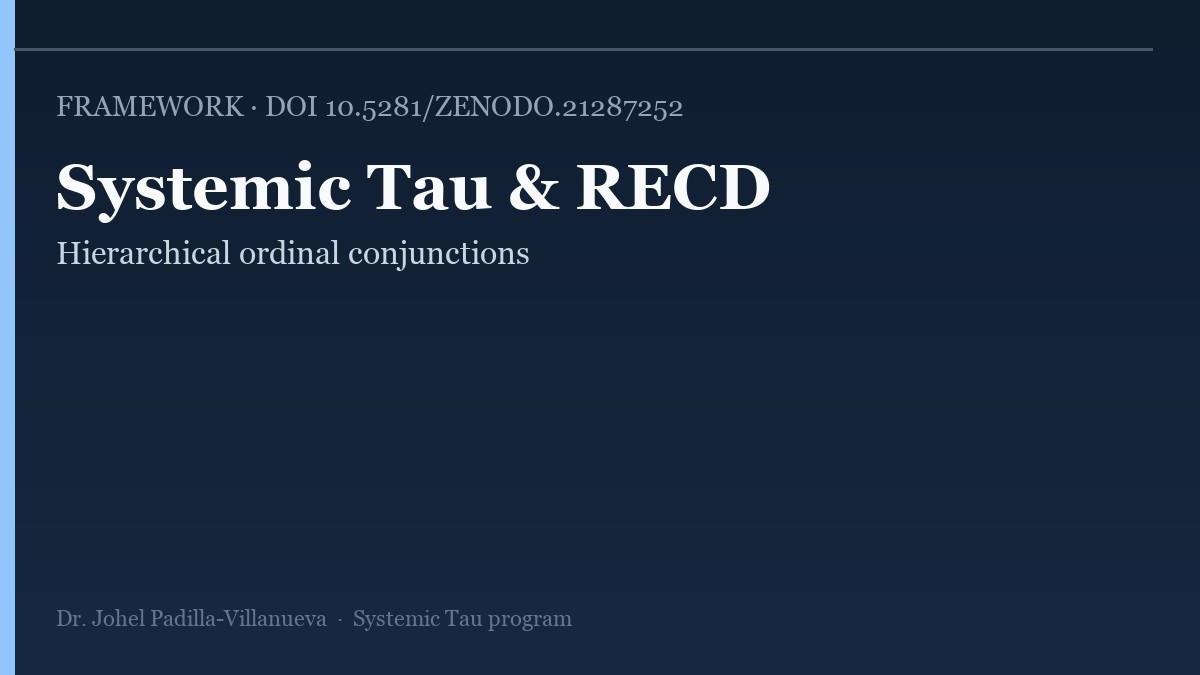
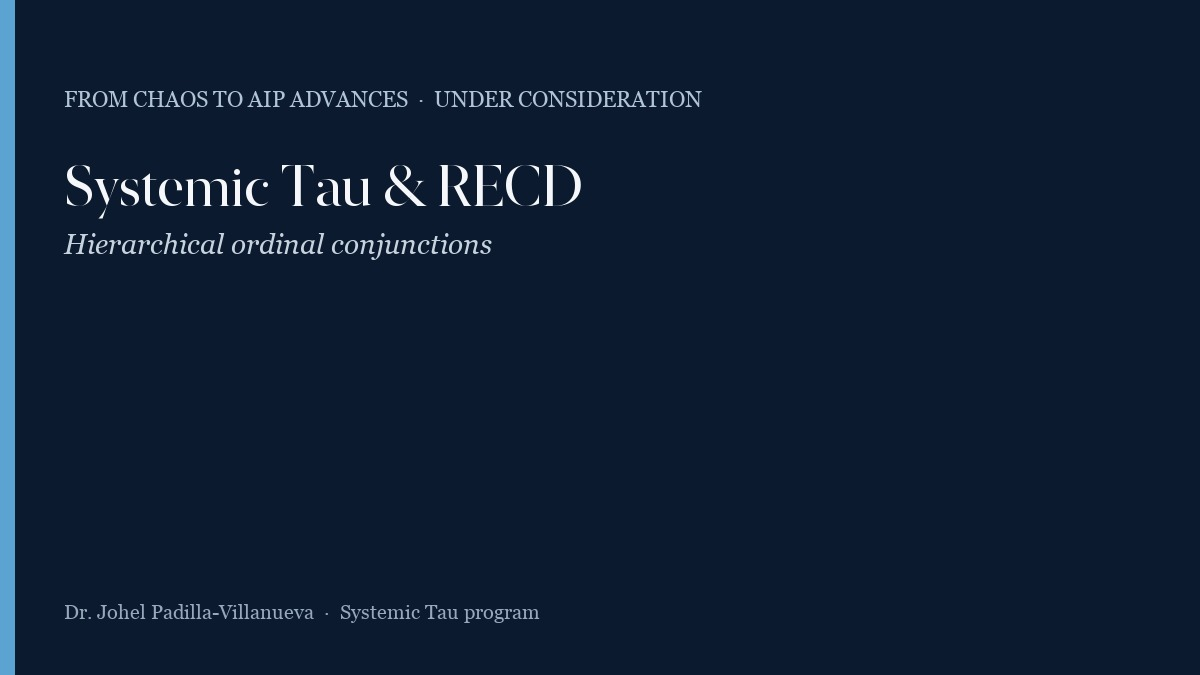
Record Chaos recommendation and reclassification to AIP Advances
The foundations paper is under consideration at AIP Advances after the
Chaos editor recommended the manuscript and reclassified it to that AIP
division. Keep the Zenodo preprint as the public version; do not present
the move as a rejection or as an acceptance.

Changed region(s): [[0.0, 0.0, 0.9558, 1.0]]

diff --git a/content/publications/systemic-tau-recd-framework/index.md b/content/publications/systemic-tau-recd-framework/index.md
@@ -3,13 +3,18 @@ title: "Systemic Tau and the RECD Framework: A Relational Theory of Hierarchical
 authors:
 - me
 date: "2026-07-10T00:00:00Z"
-publishDate: "2026-07-10T00:00:00Z"
+publishDate: "2026-08-18T00:00:00Z"
 
 publication_types: ["preprint"]
 
 peer_reviewed: false
 open_access: true
 license: CC-BY-4.0
+
+publication:
+  name: "AIP Advances (en consideración; reclasificado desde Chaos)"
+  short_name: "AIP Adv."
+  publisher: "AIP Publishing"
 
 hugoblox:
   ids:
@@ -23,7 +28,7 @@ links:
 
 abstract: "Theoretical framework for early warning of critical transitions based on two complementary constructs. Systemic Tau (τ_s) is an ordinal, multivariate measure of cross-variable coupling that tracks relational coherence via Kendall-type rank concordance. The Discrete Extramental Clock (RECD) builds an intrinsic, event-driven time metric from nested ordinal conjunctions (coincidence, persistent structure, and irreducible synergistic surplus)."
 
-summary: "Core RECD / Systemic Tau framework preprint (Zenodo 10.5281/zenodo.21287252)."
+summary: "Chaos (AIP) recomendó el manuscrito y lo reclasificó a AIP Advances, donde está en consideración. Preprint abierto en Zenodo."
 
 tags:
 - Systemic Tau
@@ -31,9 +36,17 @@ tags:
 - Early Warning
 - Complex Systems
 - Ordinal Patterns
+- AIP Advances
+- Chaos
 
 featured: true
 ---
+
+## Estado editorial
+
+Enviado a *Chaos* (AIP Publishing; CHA26-AR-02253, 14 de agosto de 2026). El editor **recomendó** el manuscrito y lo **reclasificó** a *AIP Advances* — la división de AIP apropiada por alcance, centrada en la solidez de los resultados. El transfer se completó el 18 de agosto de 2026.
+
+Está **en consideración** en *AIP Advances* (ADV26-AR-04147-T). No es una aceptación; el preprint abierto permanece en Zenodo.
 
 ## Key contributions
 
@@ -47,11 +60,13 @@ featured: true
 | Resource | URL |
 |----------|-----|
 | DOI / PDF | [10.5281/zenodo.21287252](https://doi.org/10.5281/zenodo.21287252) |
+| Journal | [*AIP Advances*](https://pubs.aip.org/aip/adv) (en consideración) |
 | Software | [Academy Learning Tau](https://academylearningtau.streamlit.app) |
 | Synthesis | [Second Edition monograph](../tau-sistemic-second-edition/) |
 
 ## Citation
 
 ```
-Padilla-Villanueva, J. (2026). Systemic Tau and the RECD framework: A relational theory of hierarchical ordinal conjunctions and critical transitions in complex systems. Zenodo. https://doi.org/10.5281/zenodo.21287252
+Padilla-Villanueva, J. (2026). Systemic Tau and the RECD framework: A relational theory of hierarchical ordinal conjunctions and critical transitions in complex systems. Preprint, Zenodo. https://doi.org/10.5281/zenodo.21287252
+  Submitted to Chaos (AIP); editor recommended transfer and reclassified to AIP Advances (ADV26-AR-04147-T; under consideration).
 ```

diff --git a/content/about/index.md b/content/about/index.md
@@ -47,7 +47,7 @@ sections:
       text: |-
         El trabajo se organiza en torno a **Systemic Tau (τ_s)** y el **Reloj Extramental Discreto (RECD)**: métricas ordinales multivariadas, tiempo extramental discreto y dependencia de orden superior (**excess³ / Φ₃**), con aplicaciones a alerta temprana (dengue) y software abierto.
 
-        La arquitectura canónica está en la *Summa Tau Sistemica* (Tomos **I–IV** cerrados; **V** epidemiología en curso). En filosofía de la física, continúo el proyecto poliano con *El acto de ser relacional-discreto*. La síntesis de programa está en *Systemic Tau and the Discrete Architecture of Time* (2.ª ed., ISBN 979-8-18776-367-2).
+        El artículo de fundamentos fue enviado a *Chaos* (AIP). El editor lo recomendó y lo reclasificó a *AIP Advances*, donde está en consideración. La arquitectura canónica está en la *Summa Tau Sistemica* (Tomos **I–IV** cerrados; **V** epidemiología en curso). En filosofía de la física, continúo el proyecto poliano con *El acto de ser relacional-discreto*. La síntesis de programa está en *Systemic Tau and the Discrete Architecture of Time* (2.ª ed., ISBN 979-8-18776-367-2).
 
         ### Enlaces rápidos
         - [Perfil de autor](/academic-site/authors/me/) · [Publicaciones](/academic-site/publications/) · [Proyectos](/academic-site/project/)

diff --git a/content/about/index.en.md b/content/about/index.en.md
@@ -45,7 +45,7 @@ sections:
       text: |-
         Work centers on **Systemic Tau (τ_s)** and the **Discrete Extramental Clock (RECD)**: multivariate ordinal metrics, discrete extramental time, and higher-order dependence (**excess³ / Φ₃**), with applications to early warning (dengue) and open software.
 
-        The canonical architecture is the *Summa Tau Sistemica* (Tomes **I–IV** closed; **V** epidemiology in progress). In philosophy of physics, I continue Polo’s project with *El acto de ser relacional-discreto*. The program synthesis is *Systemic Tau and the Discrete Architecture of Time* (2nd ed., ISBN 979-8-18776-367-2).
+        The foundations article was submitted to *Chaos* (AIP). The editor recommended it and reclassified it to *AIP Advances*, where it is under consideration. The canonical architecture is the *Summa Tau Sistemica* (Tomes **I–IV** closed; **V** epidemiology in progress). In philosophy of physics, I continue Polo’s project with *El acto de ser relacional-discreto*. The program synthesis is *Systemic Tau and the Discrete Architecture of Time* (2nd ed., ISBN 979-8-18776-367-2).
 
         ### Quick links
         - [Author profile](/academic-site/authors/me/) · [Publications](/academic-site/publications/) · [Projects](/academic-site/project/)

diff --git a/content/publications/_index.md b/content/publications/_index.md
@@ -9,6 +9,6 @@ banner:
   image: ''
 ---
 
-Catálogo en fichas con portada cuando está disponible. Arquitectura canónica: *[Summa Tau Sistemica](summa-tau-sistemica/)* (Tomos I–IV). Trabajos recientes (2026) en [Zenodo](https://zenodo.org/search?q=metadata.creators.person_or_org.name%3A%22Padilla-Villanueva%2C+Johel%22) (CC-BY 4.0).
+Catálogo en fichas con portada cuando está disponible. Arquitectura canónica: *[Summa Tau Sistemica](summa-tau-sistemica/)* (Tomos I–IV). El artículo de fundamentos *[Systemic Tau / RECD](systemic-tau-recd-framework/)* fue recomendado por *Chaos* (AIP) y reclasificado a *AIP Advances* (en consideración). Trabajos recientes (2026) en [Zenodo](https://zenodo.org/search?q=metadata.creators.person_or_org.name%3A%22Padilla-Villanueva%2C+Johel%22) (CC-BY 4.0).
 
 **Enlaces útiles:** [BibTeX 2026](../uploads/BibTeX_Clean_2026.bib) · [Software](../software/) · [Academy Learning Tau](https://academylearningtau.streamlit.app) · [Presentación v1.4](../uploads/presentations/Paradigma_Tau_Sistemico_Completo_v1.4.pptx)

diff --git a/content/project/systemic-tau/index.md b/content/project/systemic-tau/index.md
@@ -19,7 +19,7 @@ links:
 **Systemic Tau (τ_s)** es una medida ordinal multivariada de acoplamiento entre variables: rastrea coherencia relacional vía concordancias de rango (estilo Kendall), más allá de la amplitud univariada.
 
 ### Entregables
-- Marco teórico RECD / τ_s ([Zenodo 10.5281/zenodo.21287252](https://doi.org/10.5281/zenodo.21287252))
+- Marco teórico RECD / τ_s ([Zenodo 10.5281/zenodo.21287252](https://doi.org/10.5281/zenodo.21287252)) — *Chaos* (AIP) recomendó y reclasificó el manuscrito a *AIP Advances* (en consideración)
 - *Summa Tau Sistemica* (Tomos I–IV)
 - Monografía *Systemic Tau and the Discrete Architecture of Time* (2.ª ed.)
 - App de escritorio macOS **Systemic Tau** ([releases](https://github.com/johelpadilla/systemictau/releases))

diff --git a/content/project/recd/index.md b/content/project/recd/index.md
@@ -17,6 +17,6 @@ links:
 El **Reloj Extramental Discreto (RECD)** construye un tiempo intrínseco impulsado por eventos a partir de conjunciones ordinales anidadas: coincidencia, estructura persistente y superávit sinérgico irreducible (Φ₃ / excess³).
 
 ### Anclas del corpus
-- Framework: [10.5281/zenodo.21287252](https://doi.org/10.5281/zenodo.21287252)
+- Framework: [10.5281/zenodo.21287252](https://doi.org/10.5281/zenodo.21287252) — *Chaos* recomendó y reclasificó a *AIP Advances* (en consideración)
 - Φ₃ → RECD: [10.5281/zenodo.21400599](https://doi.org/10.5281/zenodo.21400599)
 - Dimensión fractal del tiempo extramental: [10.5281/zenodo.20619058](https://doi.org/10.5281/zenodo.20619058)
